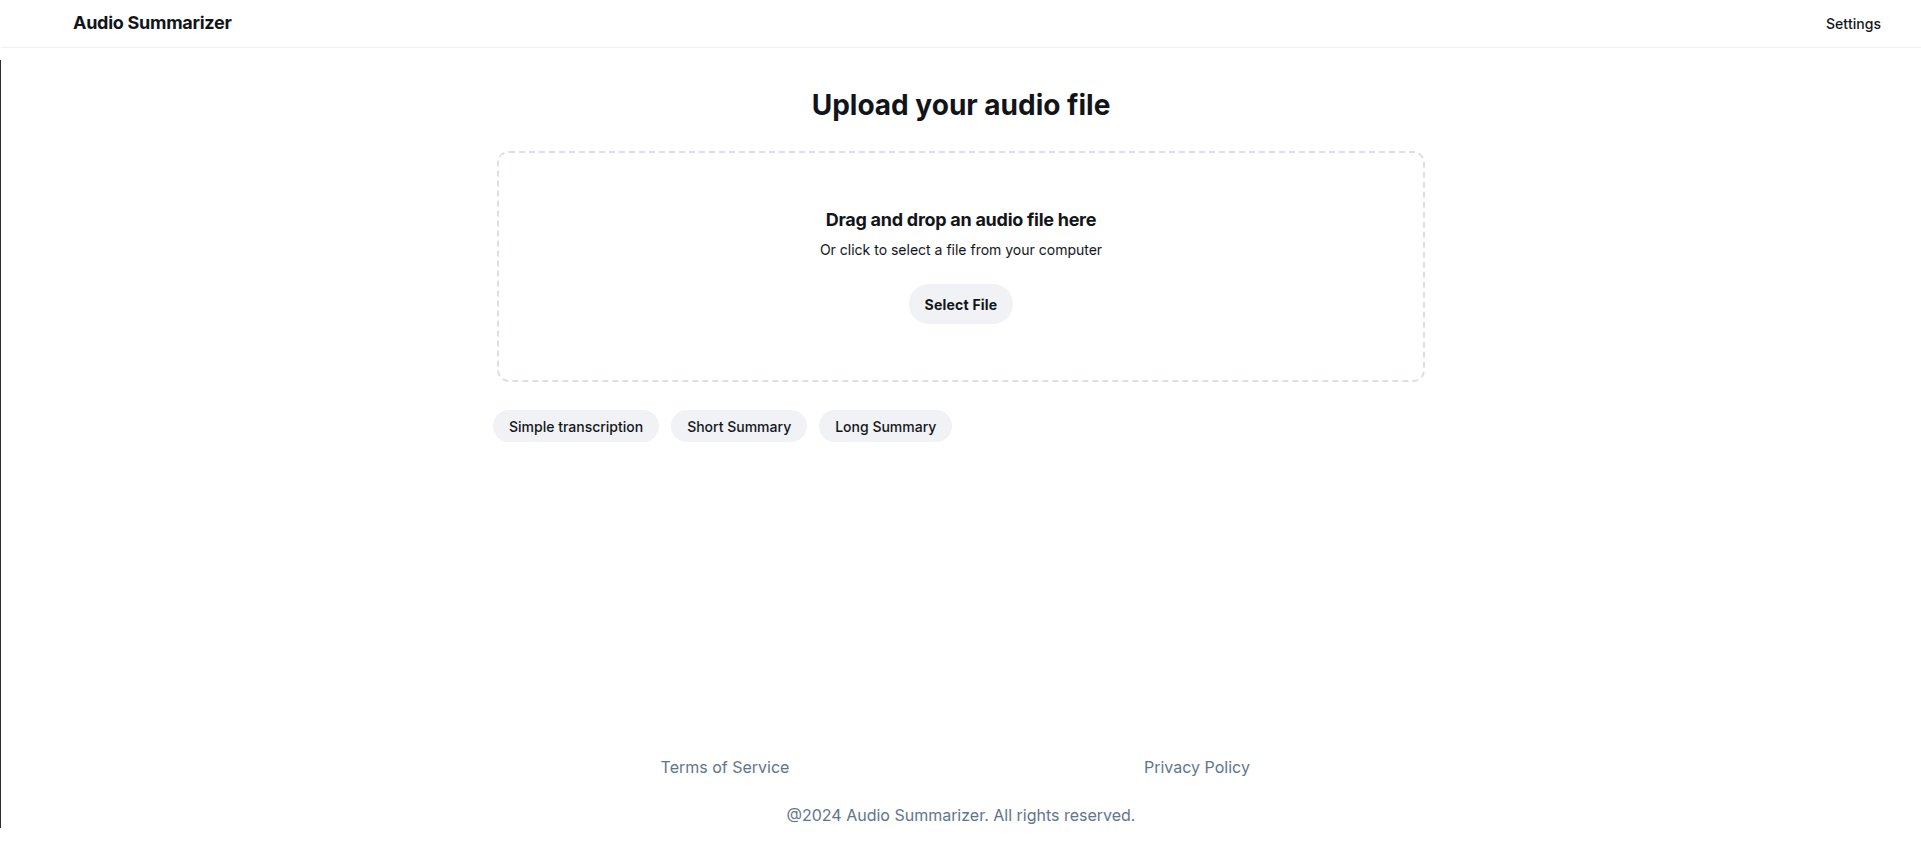
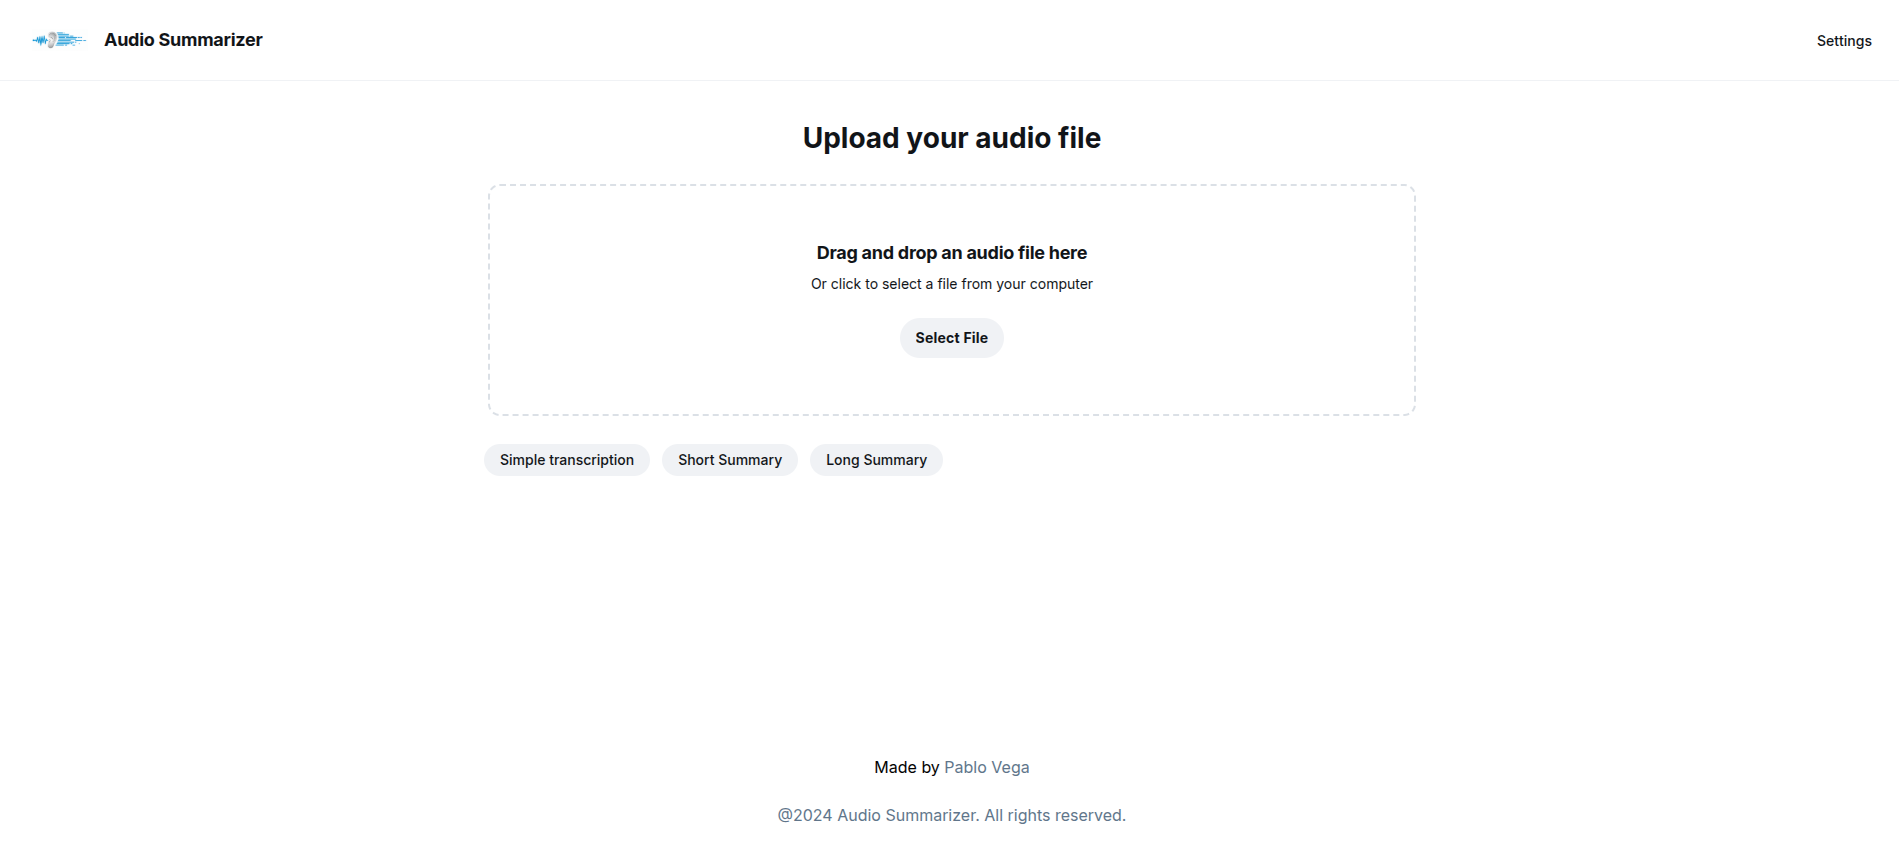
Add a new project to the projects page.

diff --git a/Proyectos.html b/Proyectos.html
@@ -34,6 +34,7 @@
 
     <main>
       <h1 id="proyectos-titulo"></h1>
+      
       <div class="proyecto">
         <h2 id="proyecto-1-titulo"></h2>
         <p id="proyecto-1-desc"></p>
@@ -55,26 +56,31 @@
           ></a>
         </div>
       </div>
-      <!--
-        <div class="proyecto">
-          <h2 id="proyecto-2-titulo"></h2>
-          <p id="proyecto-2-desc"></p>
+        
+      <div class="proyecto">
+          <h2 id="proyecto-4-titulo"></h2>
+          <p id="proyecto-4-desc"></p>
           <img
             class="imagen-proyecto"
-            src="https://via.placeholder.com/400x200"
-            alt="Imagen del proyecto 2"
+            src="Imagenes/Transcribe-summarize-local-screenshot.png"
+            alt="Transcribe-summarize-local"
           />
           <div class="enlaces">
-            <a id="proyectos-personales-a-2" href="#" target="_blank"></a>
+            <a 
+            id="proyectos-personales-a-4" 
+            href="https://github.com/PabloVegaf/Transcribe-summarize-local" 
+            target="_blank"
+            ></a>
           </div>
         </div>
+      <!-- 
         <div class="proyecto">
           <h2 id="proyecto-3-titulo"></h2>
           <p id="proyecto-3-desc"></p>
           <img
-            class="imagen-proyecto"
-            src="https://via.placeholder.com/400x200"
-            alt="Imagen del proyecto 3"
+          class="imagen-proyecto"
+          src="https://via.placeholder.com/400x200"
+          alt="Imagen del proyecto 3"
           />
         </div>
       -->

diff --git a/js/translations.js b/js/translations.js
@@ -81,7 +81,7 @@ const traducciones = {
     en: "Steam MCP Server"
   },
   "proyecto-2-desc": {
-    es: "Servidor del Protocolo de Contexto de Modelos (MCP) que permite a los asistentes de IA acceder a información de Steam, incluyendo detalles de juegos, estadísticas de jugadores y datos de la biblioteca personal.",
+    es: "MCP (Model Context Protocol) que permite a los asistentes de IA acceder a información de Steam, incluyendo detalles de juegos, estadísticas de jugadores y datos de la biblioteca personal.",
     en: "Model Context Protocol (MCP) server that allows AI assistants to access Steam information, including game details, player statistics, and personal library data."
   },
   "proyectos-personales-a-2": {
@@ -95,6 +95,18 @@ const traducciones = {
   "proyecto-3-desc": {
     es: "Servidor doméstico Linux montado con un portátil antiguo donde se alojan servicios como Maybe (gestor de economía personal), Home Assistant (domótica), servidor web personal, n8n (automatización de flujos de trabajo), entre otros.",
     en: "Linux home server built with an old laptop, hosting services like Maybe (personal finance manager), Home Assistant (home automation), personal web server, n8n (workflow automation), among others."
+  },
+  "proyecto-4-titulo": {
+    es: "Transcribe-summarize-local",
+    en: "Transcribe-summarize-local"
+  },
+  "proyecto-4-desc": {
+    es: "Similar a Transcribe-summarize, pero funcionando de forma completamente local sin necesidad de conexión a internet ni uso de APIs externas. Utiliza modelos de código abierto como Whisper para la transcripción y se conecta con LM Studio/Ollama para usar LLMs en local para los resúmenes. Ideal para quienes buscan privacidad y autonomía en el procesamiento de audio, de forma completamente gratuita.",
+    en: "Similar to Transcribe-summarize, but fully local without internet connection or external APIs. Uses open-source models like Whisper for transcription and connects with LM Studio/Ollama to use LLMs locally for summaries. Ideal for those seeking privacy and autonomy in audio processing, completely free."
+  },
+  "proyectos-personales-a-4": {
+    es: "Ver repositorio del proyecto",
+    en: "View project repository"
   },
   "experiencia-title": {
     es: "Experiencia Laboral",